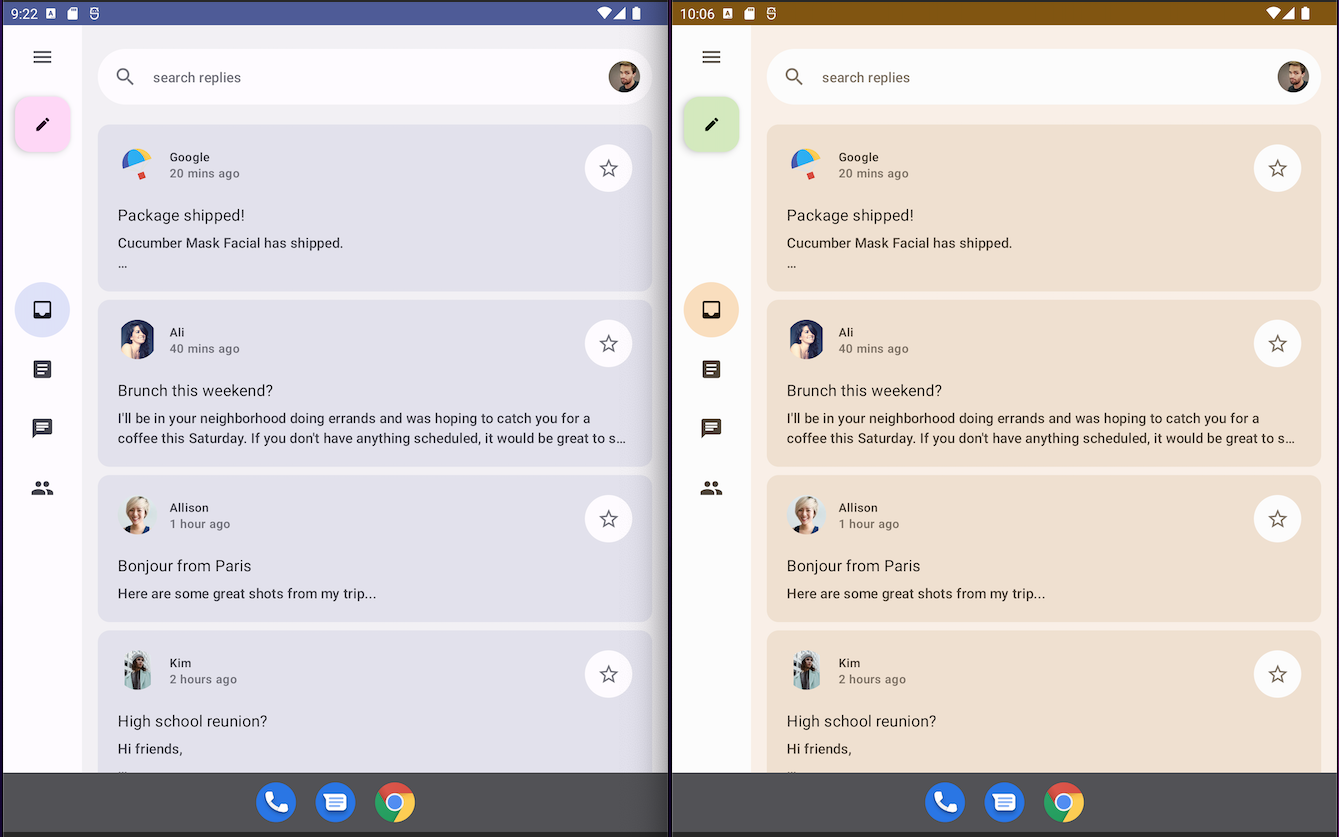
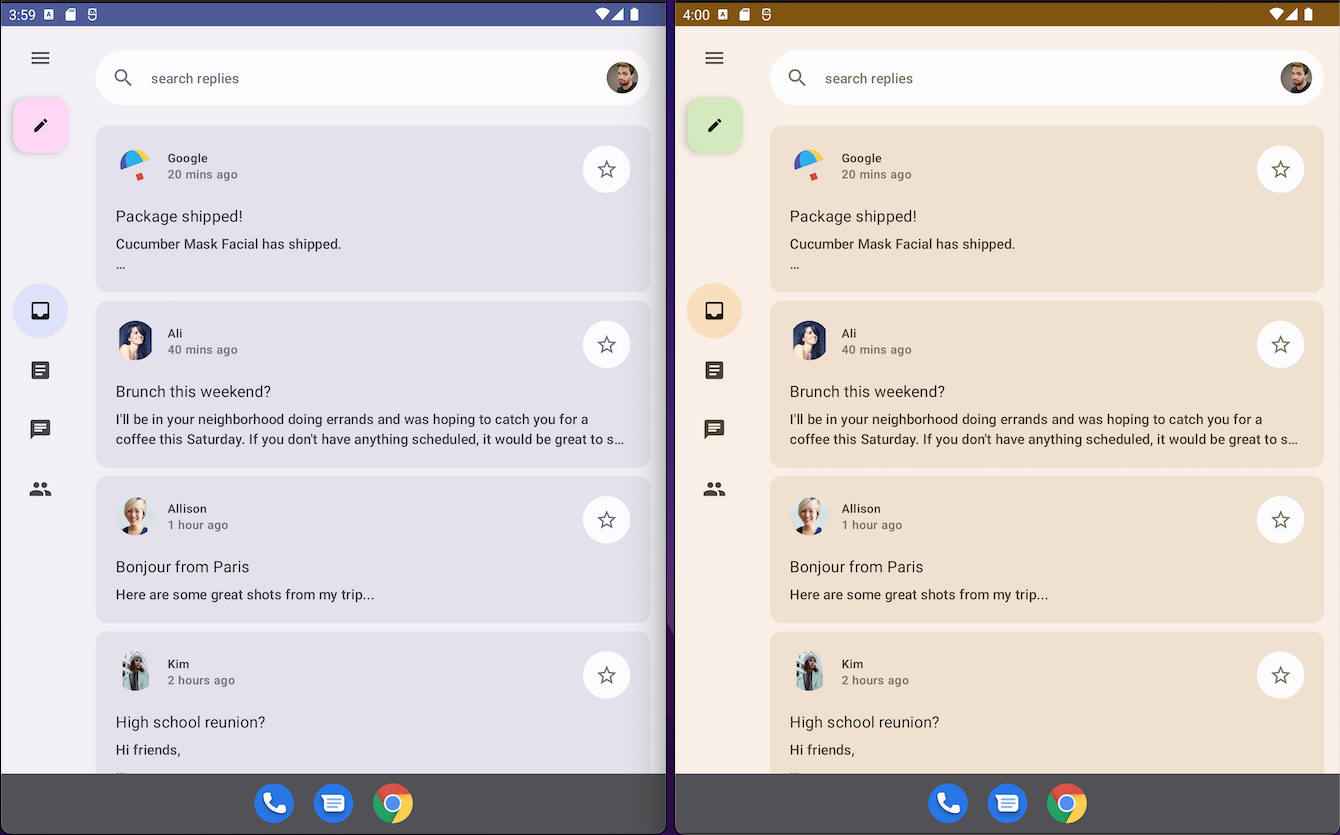
updated pngs with correct path

diff --git a/Reply/app/src/main/java/com/example/reply/ui/navigation/ReplyNavigationComponents.kt b/Reply/app/src/main/java/com/example/reply/ui/navigation/ReplyNavigationComponents.kt
@@ -70,6 +70,7 @@ fun ReplyNavigationRail(
 ) {
     NavigationRail(
         modifier = Modifier.fillMaxHeight(),
+        containerColor = MaterialTheme.colorScheme.inverseOnSurface
     ) {
         //TODO remove custom nav rail positioning when NavRail component supports it. ticket : b/232495216
         Layout(
@@ -184,7 +185,7 @@ fun NavigationDrawerContent(
 ) {
     //TODO remove custom nav drawer content positioning when NavDrawer component supports it. ticket : b/232495216
     Layout(
-        modifier = Modifier.padding(16.dp),
+        modifier = Modifier.background(MaterialTheme.colorScheme.inverseOnSurface).padding(16.dp),
         content = {
             Column(
                 modifier = Modifier.layoutId("header"),

diff --git a/Reply/app/src/main/java/com/example/reply/ui/ReplyListContent.kt b/Reply/app/src/main/java/com/example/reply/ui/ReplyListContent.kt
@@ -168,7 +168,7 @@ fun ReplyListAndDetailContent(
     modifier: Modifier = Modifier,
     navigateToDetail: (Long) -> Unit
 ) {
-    Row(modifier = modifier, horizontalArrangement = Arrangement.spacedBy(8.dp)) {
+    Row(modifier = modifier) {
         LazyColumn(modifier = modifier.weight(1f), state = emailLazyListState) {
             item {
                 ReplySearchBar(modifier = Modifier.fillMaxWidth())

diff --git a/Reply/app/src/main/java/com/example/reply/ui/theme/Theme.kt b/Reply/app/src/main/java/com/example/reply/ui/theme/Theme.kt
@@ -93,7 +93,7 @@ private val replyLightColorScheme = lightColorScheme(
 @Composable
 fun ReplyTheme(
     darkTheme: Boolean = isSystemInDarkTheme(),
-    dynamicColor: Boolean = true,
+    dynamicColor: Boolean = false,
     content: @Composable () -> Unit
 ) {
     val replyColorScheme = when {

diff --git a/Reply/README.md b/Reply/README.md
@@ -18,7 +18,6 @@ This sample showcases:
 ## Screenshots
 
 <img src="screenshots/reply.gif"/>
-<img src="screenshots/reply_medium_and_large_tablet.png">
 
 ## Features
 
@@ -36,7 +35,7 @@ The sample provides usage of  material navigation components depending on screen
 * [`NavigationRail`](app/src/main/java/com/example/reply/ui/navigation/ReplyNavigationComponents.kt#70) is used for medium size devices. It is also used along with [`ModalNavigationDrawer`](app/src/main/java/com/example/reply/ui/ReplyApp.kt#73) when user want to see more content.
 * [`PermanentNavigationDrawer`](app/src/main/java/com/example/reply/ui/ReplyApp.kt#153) is used for large devices or desktops when we have enough space to show navigation drawer content always.
 * Depending upon the different size and state of device correct [navigation type](app/src/main/java/com/example/reply/ui/ReplyApp.kt#71) is chosen dynamically.
-  <img src="screenshots/reply_3_screens.pmg">
+  <img src="screenshots/compact_medium_large_displays.png">
 
 #### [Material 3 Theming](app/src/main/java/com/example/reply/ui/theme)
 Reply is using brand new Material 3 [colors](app/src/main/java/com/example/reply/ui/theme/Color.kt), [typography](app/src/main/java/com/example/reoly/ui/theme/Type.kt) and [theming](app/src/main/java/com/example/reply/ui/theme/Theme.kt). It also supports both [light and dark mode]((app/src/main/java/com/example/reply/ui/theme/Theme.kt#95)) depending on system settings.
@@ -44,12 +43,12 @@ Reply is using brand new Material 3 [colors](app/src/main/java/com/example/reply
 
 #### [Dynamic theming/Material You](app/src/main/java/com/example/reply/ui/theme/Theme.kt#100)
 On Android 12+ Reply supports Material You dynamic color, which extracts a custom color scheme from the device wallpaper. For older version of android it falls back to defined light and dark [color schemes](aapp/src/main/java/com/example/reply/ui/theme/Theme.kt#34)
-<img src="screenshots/dynamic_theming.pmg">
+<img src="screenshots/dynamic_theming.png">
 
 #### [Inbox Screen](app/src/main/java/com/example/reply/ui/ReplyListContent.kt)
 Similar to navigation type, depending on device's size and state correct [content type](app/src/main/java/com/example/reply/ui/ReplyApp.kt#72) is chosen, we can have [Inbox only](app/src/main/java/com/example/reply/ui/ReplyListContent.kt#91) or [Inbox and thread detail](app/src/main/java/com/example/reply/ui/ReplyListContent.kt#83) together. The content in inbox screen
 is adaptive and is switched between list only or list and details page depending on the screen size available.
-<img src="screenshots/reply_small_and_large_tablet.pmg">
+<img src="screenshots/medium_and_large_display.png">
 
 #### [FAB & Material 3 components](app/src/main/java/com/example/reply/ui/ReplyListContent.kt)
 Reply is using all material 3 components including different type of FAB for different screen size and states.
